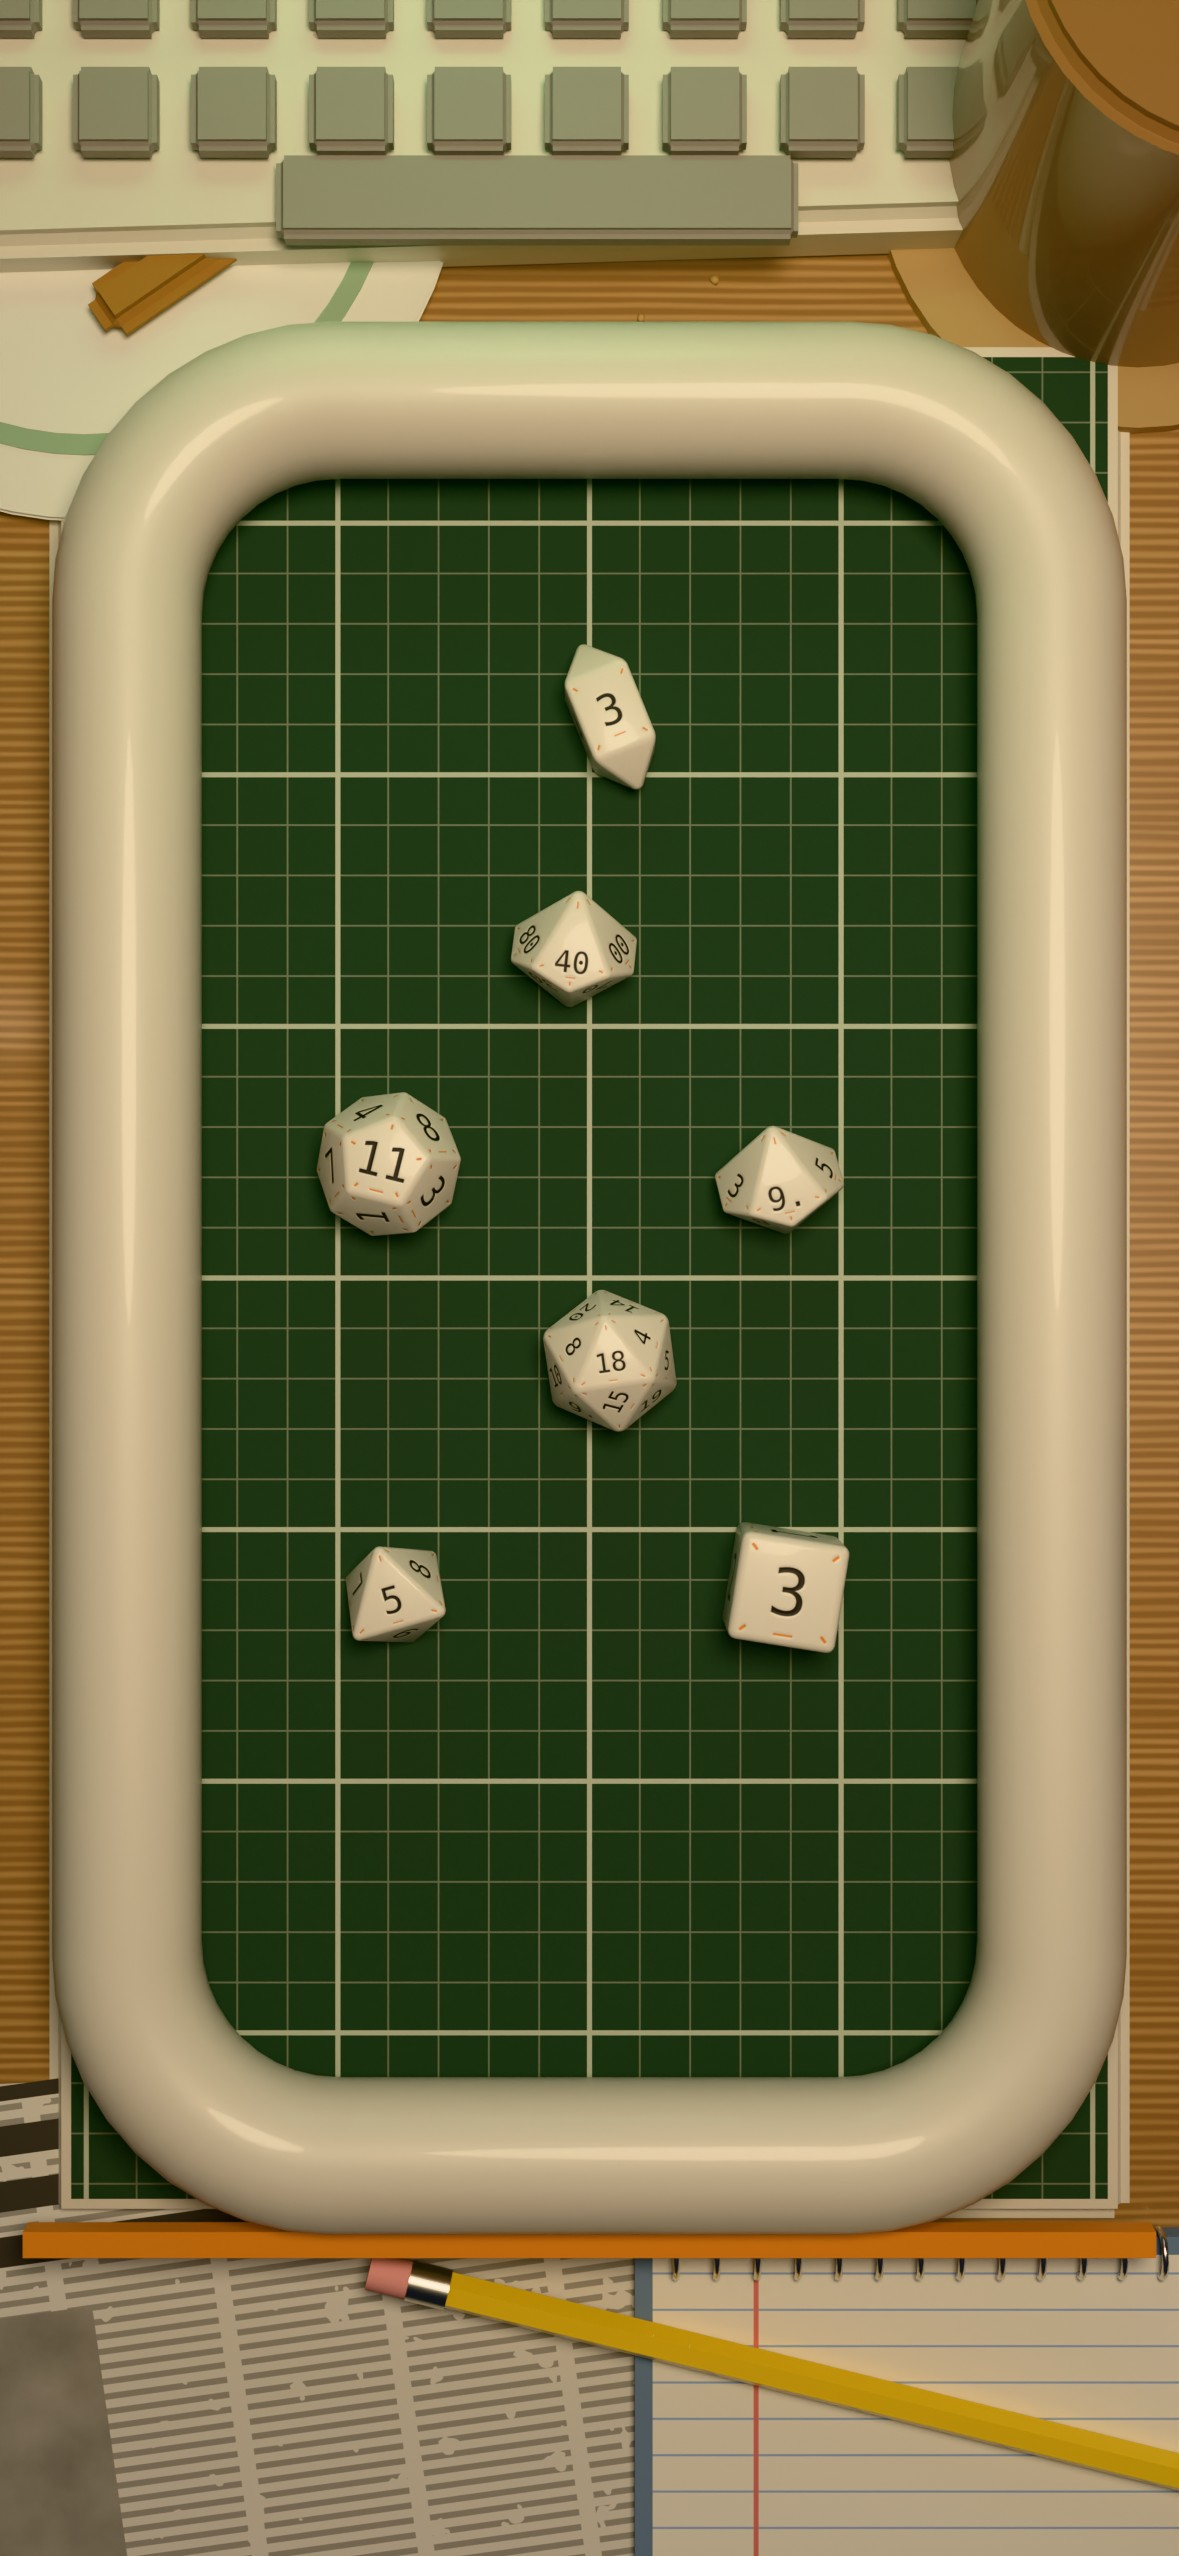
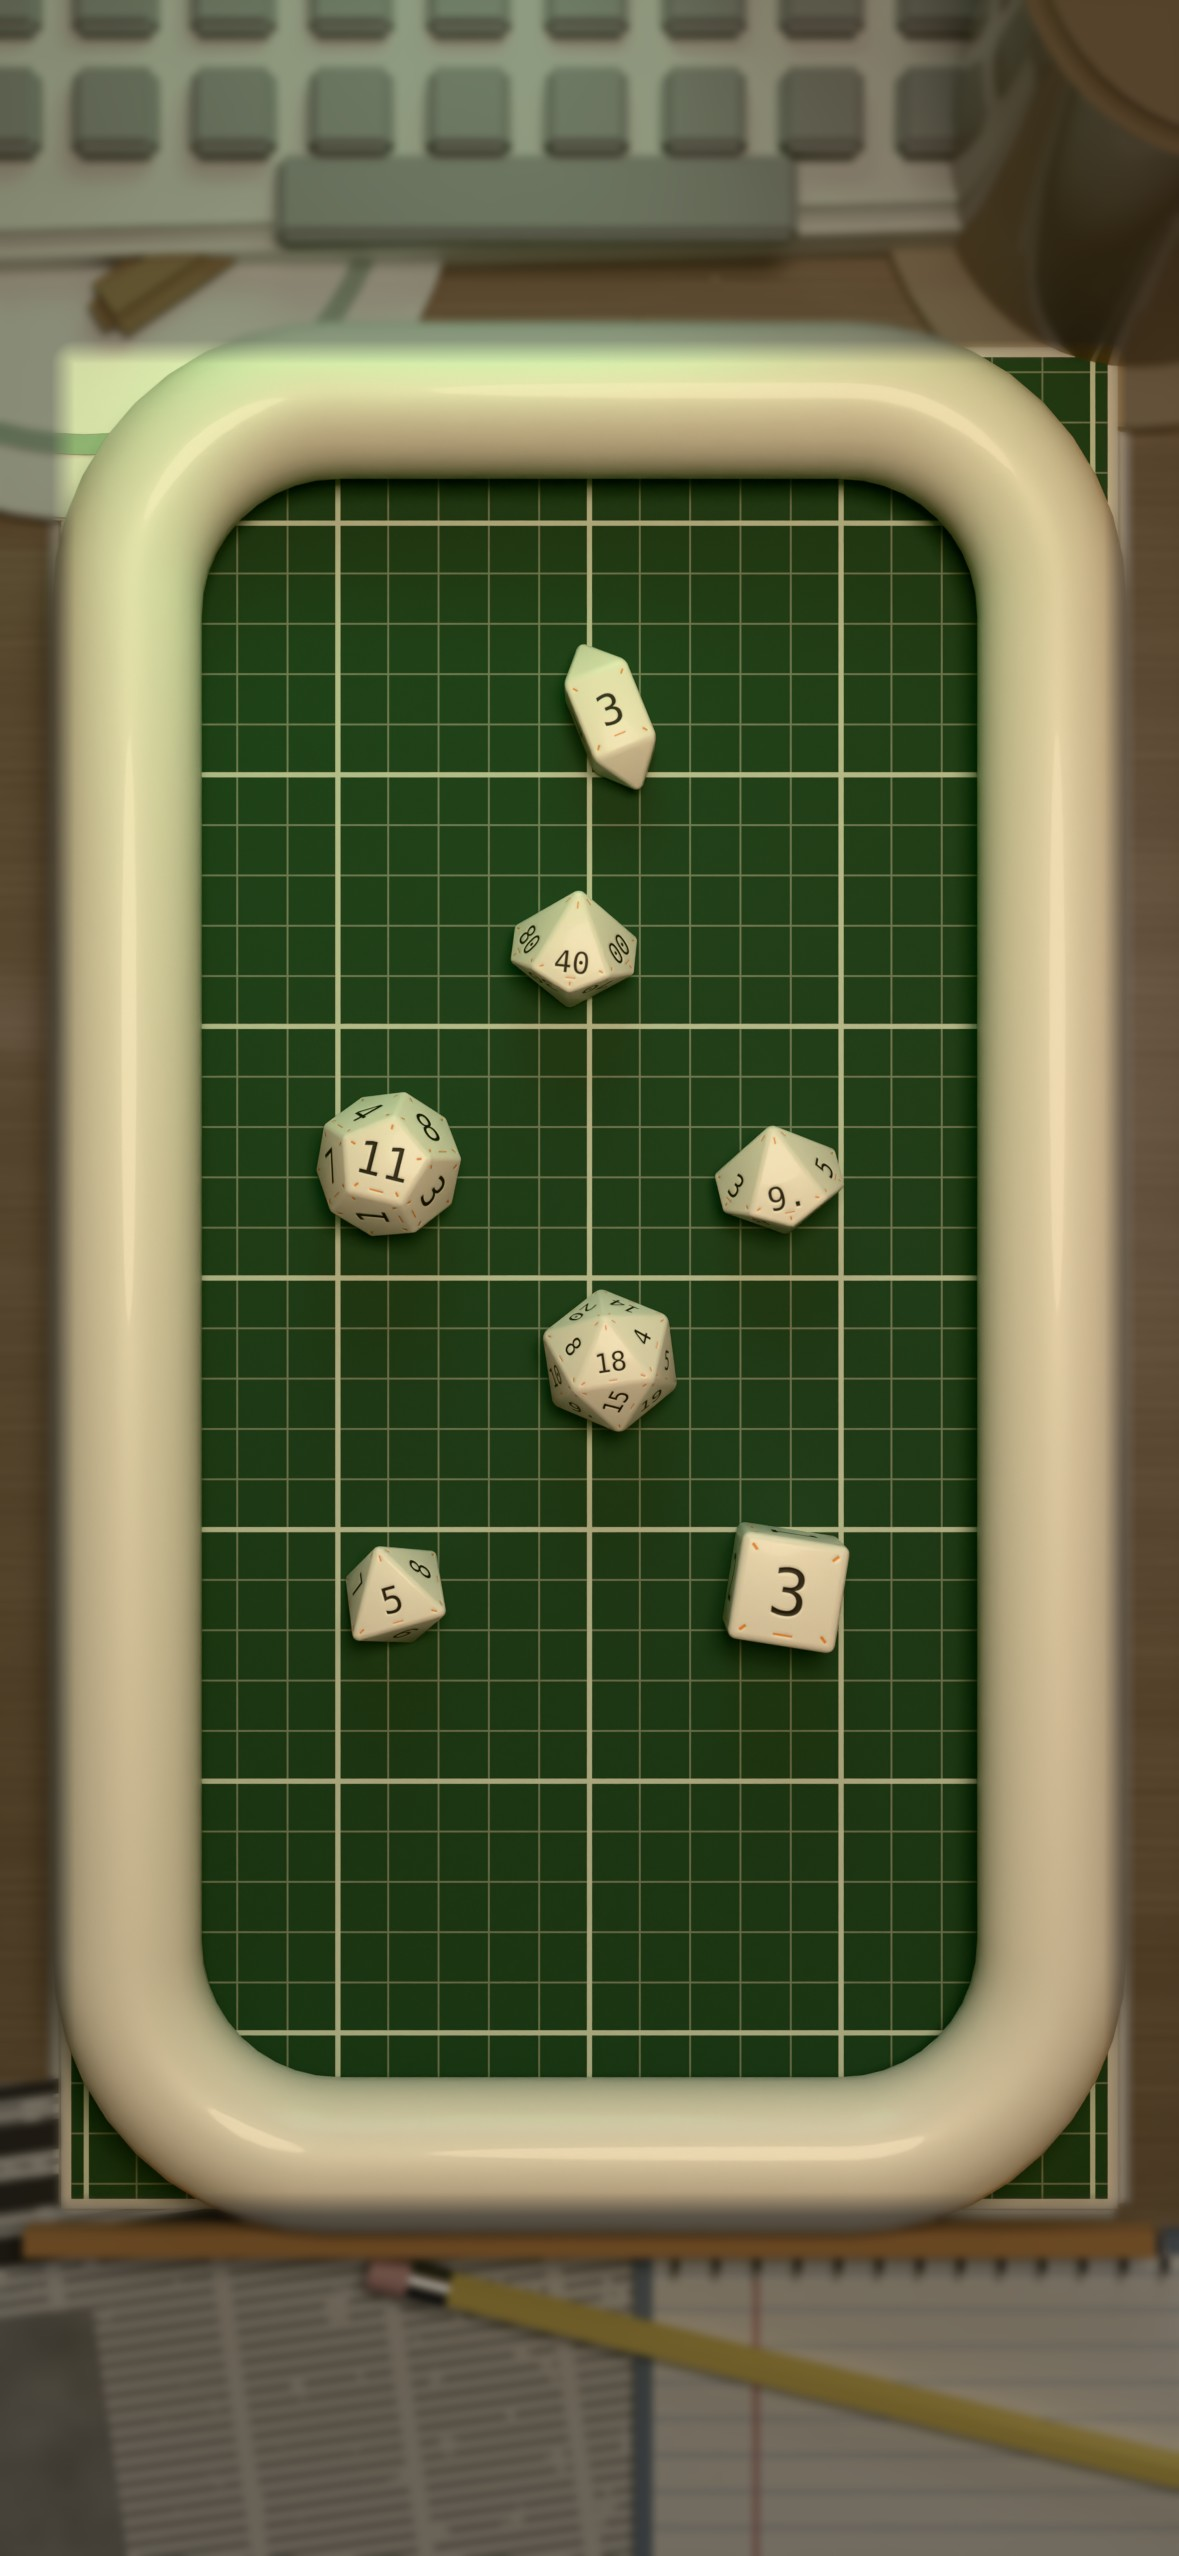
Game rooms: Northfield 1986 kitchen

diff --git a/dart3d/example/tool/dice_lookdev/build_env_northfield.py b/dart3d/example/tool/dice_lookdev/build_env_northfield.py
@@ -332,4 +332,4 @@ def room(scene, table, top):
                0.5), segs=6)
     E.light(scene, "AREA", "crt_spill", (-3.0, top + 10, 14), 2500, color=(0.3, 1.0, 0.45), size=20,
             target=(-60, -20, 0), shadow=False)
-    return dict(loc=(26, -66, 36), target=(-10, 90, 6), lens=20, fstop=4.0, focus=(0, 0, 2))
+    return dict(loc=(30, -80, 44), target=(-26, 90, 4), lens=20, fstop=4.0, focus=(0, 0, 2))

diff --git a/docs/design/dice-lookdev.md b/docs/design/dice-lookdev.md
@@ -1134,6 +1134,19 @@ Lighting recipes (the tray lights are unchanged unless noted):
   to take in the hearth. Gate: numeral 4.60 (d4), die vs tray 2.95,
   stroke 0.123–0.128, PASS.
 
+- **Northfield — the 1986 countryside kitchen.** Striped wallpaper, a
+  checkered lino floor, cream kitchen units along the left wall (worktop,
+  orange tile splashback, wall cupboards, cooker with an enamel kettle, a
+  tall fridge), a radiator under the window with floral curtains, and
+  outside the grey field, a tree line and the tall three-legged machine
+  (flat silhouettes against the sky). Lights: the orange pendant over the
+  table, now on a cord (warm key, above), the window (area, 30 kW,
+  grey-blue daylight, back), the CRT's shadowless green spill (2.5 kW,
+  left, the accent) and a warm strip under the wall cupboards (6 kW,
+  back-left). Camera: 20 mm, looking across the table toward the window
+  and the units. Gate: numeral 7.46 (d10t), die vs tray 5.49, stroke
+  0.124–0.132, PASS.
+
 ## 4. dart3d features to verify (before building these for real)
 
 1. **Emissive intensity > 1 + bloom threshold** on both platforms, and
